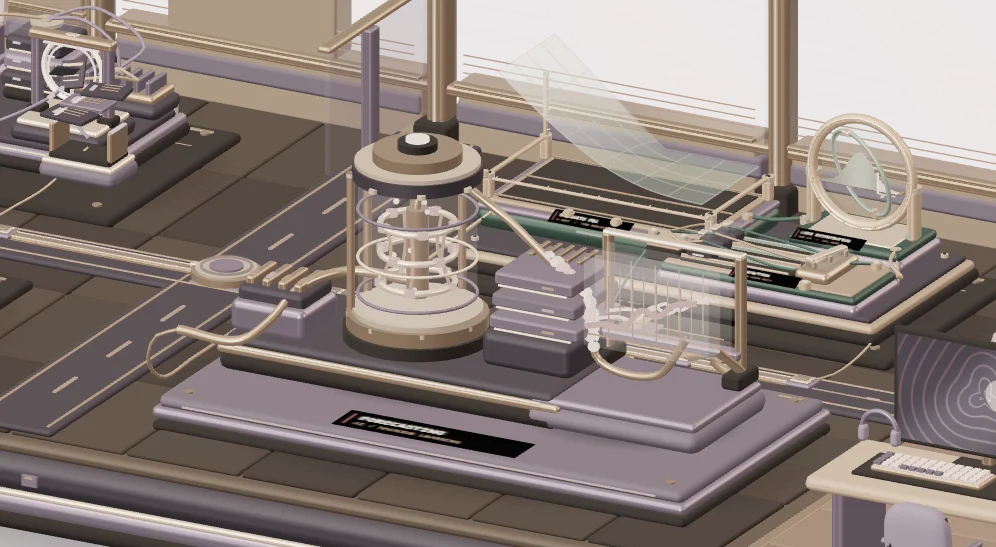
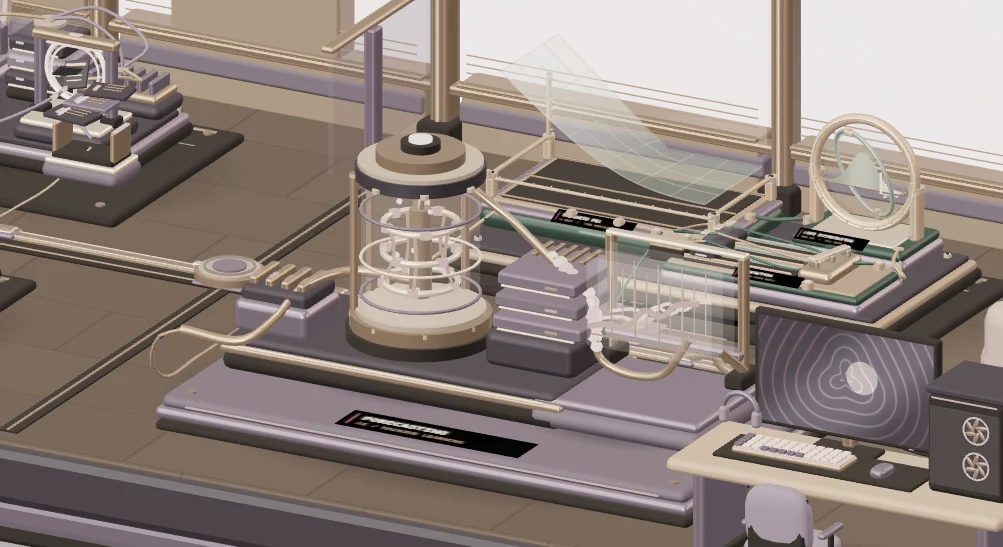
Unify the Studio foundation, walls and furnishings

diff --git a/src/sections/research-studio/studio-interior.ts b/src/sections/research-studio/studio-interior.ts
@@ -1,45 +1,26 @@
 import {
   Box3, DoubleSide, Group, Mesh, MeshBasicMaterial, PlaneGeometry, ShaderMaterial, Vector3,
 } from "three";
-import { modelGroup, placeShadow, type StudioMaterials } from "./studio-model";
+import { modelGroup, type StudioMaterials } from "./studio-model";
 import { buildLounge, buildDesk } from "./studio-furniture";
 import { studioPicture, studioScreen } from "./studio-interior-media";
 import type { StudioObjectId } from "./studio-choreography";
 
 export const studioObjectIds = ["lounge", "desk", "television", "artwork"] as const;
 
-export function studioInterior(parent: Group, m: StudioMaterials, shadow: MeshBasicMaterial, straightWing: boolean) {
+export function studioInterior(parent: Group, m: StudioMaterials, shadow: MeshBasicMaterial, straight: boolean) {
   const room = modelGroup(parent);
   const wall = m.satin(m.night.clone().lerp(m.stone,.30),.88);
   const plaster = m.satin(m.stone.clone().lerp(m.ivory,.15).lerp(m.night,.23),.91);
   const oak = m.satin(m.stone.clone().lerp(m.night,.67),.65);
-  const boards = [.175,.205,.235,.217].map(tone => m.satin(m.night.clone().lerp(m.stone,tone).lerp(m.rose,.042),.74));
-  const fabric = m.satin(m.mauve.clone().lerp(m.stone,.35).lerp(m.night,.27),1);
+  const fabric = m.satin(m.mauve.clone().lerp(m.stone,.38).lerp(m.night,.21),.94);
   fabric.side = DoubleSide;
-  const front = straightWing ? 3.62 : 4.54;
-  const center = (front - 3.62) * .5;
-  const depth = front + 3.62;
-  const wingWidth = 4.35;
-  const wingX = 8.155;
   const back = -3.39;
-  placeShadow(parent,shadow,new Vector3(7.65,-.77,center),8.5,depth+3.1);
-  room.box(m.rubber,wingX,-.66,center,wingWidth-.06,.20,depth-.25,.08);
-  room.box(m.alloy,wingX,-.50,center,wingWidth,.17,depth-.12,.07);
-  room.box(m.edge,wingX,-.414,center,wingWidth,.050,depth-.10,.022);
-  room.box(m.ceramic,wingX,-.24,center,wingWidth,.32,depth,.12);
-  room.box(oak,wingX,-.058,center,wingWidth-.04,.13,depth-.10,.045);
-  for (let i=0;i<10;i++) {
-    const z = -3.62 + (i + .5)*depth/10;
-    const shift = i%3 * .35;
-    room.box(boards[i%4],6.92+shift*.5,.024,z,1.79+shift,.045,depth/10-.026,.018);
-    room.box(boards[(i+2)%4],9.08+shift*.5,.024,z,2.45-shift,.045,depth/10-.026,.018);
-  }
-  room.box(m.metal,6.035,.043,0,.10,.018,7.03,.012);
 
   // Deep window reveals and solid panels keep the original front cutaway open.
-  room.box(wall,8.11,.32,back,4.36,.60,.29,.035);
-  room.box(plaster,8.11,3.19,back,4.36,.41,.31,.036);
-  for (const [x,width] of [[6.32,.70],[8.81,.22],[10.06,.55]]) {
+  room.box(wall,7.99,.30,back-.03,4.44,.55,.25,.036);
+  room.box(plaster,7.98,2.77,back-.05,4.45,.58,.25,.038);
+  for (const [x,width] of [[5.94,.43],[8.80,.18],[10.04,.29]]) {
     room.box(wall,x,1.80,back,width,2.64,.29,.027);
     room.box(m.metal,x+width*.5-.03,1.81,back+.17,.052,2.72,.10,.018);
   }
@@ -50,8 +31,12 @@ export function studioInterior(parent: Group, m: StudioMaterials, shadow: MeshBa
   room.box(m.lamp,8.12,2.969,back+.12,3.47,.024,.075,.008);
   room.box(m.metal,7.7,1.84,back+.015,.055,2.32,.08,.008);
   room.box(m.metal,8.26,1.88,back+.02,3.60,.055,.08,.008);
-  room.box(plaster,10.25,.42,-2.01,.22,.74,2.65,.043);
-  room.box(m.edge,10.25,.82,-2.01,.26,.088,2.67,.034);
+  for (const x of [6.34,6.46,6.58,6.70,6.82,9.42,9.55,9.68,9.81,9.94]) {
+    room.cylinder(m.metal,x,2.945,back+.29,.025,.083,10);
+  }
+  room.box(wall,10.14,.36,-2.01,.22,.63,2.65,.052);
+  room.box(m.edge,10.14,.69,-2.01,.25,.058,2.67,.034);
+  room.box(m.alloy,10.14,.33,-.65,.24,.57,.13,.055);
 
   for (const [x,width] of [[-4.24,2.60],[-1.42,2.58],[1.41,2.51],[4.24,2.58]]) {
     room.box(wall,x,.30,back-.06,width,.55,.25,.033);
@@ -72,9 +57,10 @@ export function studioInterior(parent: Group, m: StudioMaterials, shadow: MeshBa
     return (time:number) => {
       for(let i=0;i<position.count;i++){
         const u=(i%25)/24, v=Math.floor(i/25)/17;
-        const fold=Math.sin(u*30+v*.9+sign*.6);
-        const sway=Math.sin(time*.73+u*3.1+sign)*.036*v*v;
-        position.setXYZ(i,(u-.5)*w+sign*.24*v*v,1.17-v*2.34 + .039*v*Math.cos(u*21), (.08+v*.044)*fold + sway);
+        const fold=Math.sin(u*32+v*.9+sign*.6) + .19*Math.cos(u*63-v*.8);
+        const sway=Math.sin(time*.73+u*3.1+sign)*.033*v*v;
+        const drape=(.88+v*.23)*w;
+        position.setXYZ(i,(u-.5)*drape+sign*.20*v*v,1.17-v*2.34 + .045*v*Math.cos(u*24+sign), (.051+v*.031)*fold + sway);
       }
       position.needsUpdate = true;
       shape.computeVertexNormals();
@@ -83,17 +69,17 @@ export function studioInterior(parent: Group, m: StudioMaterials, shadow: MeshBa
   const curtains = [curtain(6.69,.56,-1),curtain(9.78,.58,1)];
   curtains.forEach(animate=>animate(0));
 
-  const windowLight = new Mesh(new PlaneGeometry(3.75,4.2),new ShaderMaterial({
+  const windowLight = new Mesh(new PlaneGeometry(7.8,5.4),new ShaderMaterial({
     uniforms:{ shade:{value:m.stone.clone().lerp(m.ivory,.65)} },
     vertexShader:"varying vec2 p; void main(){p=uv;gl_Position=projectionMatrix*modelViewMatrix*vec4(position,1.);}",
-    fragmentShader:`varying vec2 p; uniform vec3 shade; void main(){vec2 g=(p-vec2(.5,.10))*vec2(2.1,1.15);
-      gl_FragColor=vec4(shade,.30*max(0.,1.-length(g))*smoothstep(0.,.16,p.y));
+    fragmentShader:`varying vec2 p; uniform vec3 shade; void main(){vec2 g=(p-vec2(.76-p.y*.31,.09))*vec2(2.35,1.15);
+      gl_FragColor=vec4(shade,.21*max(0.,1.-length(g))*smoothstep(0.,.20,p.y)*(1.-smoothstep(.74,1.,p.y)));
       #include <colorspace_fragment>
     }`,
     transparent:true,depthWrite:false,polygonOffset:true,polygonOffsetFactor:-1,
   }));
   windowLight.rotation.x=-Math.PI/2;
-  windowLight.position.set(8.12,.049,-1.12);
+  windowLight.position.set(6.36,.046,-.60);
   parent.add(windowLight);
 
   const television = new Group();
@@ -111,19 +97,21 @@ export function studioInterior(parent: Group, m: StudioMaterials, shadow: MeshBa
   console.box(m.metal,0,.82,-.11,.11,.31,.16,.025);
   console.build();
   const tv = studioScreen(television,m,new Vector3(0,1.29,.005),2.26,1.28);
-  const loungeZ = straightWing ? .04 : .31;
-  const lounge = buildLounge(parent,m,shadow,8.53,loungeZ);
-  const deskZ = straightWing ? 2.11 : 3.15;
-  const desk = buildDesk(parent,m,shadow,8.16,deskZ);
+  const loungeX = straight ? 8.48 : 8.23;
+  const loungeZ = straight ? .47 : -.13;
+  const lounge = buildLounge(parent,m,shadow,loungeX,loungeZ);
+  const deskX = straight ? 8.45 : 7.05;
+  const deskZ = straight ? 2.89 : 3.30;
+  const desk = buildDesk(parent,m,shadow,deskX,deskZ);
 
-  studioPicture(parent,m,new Vector3(-4.53,1.74,back+.15),1.52,1.17,true);
-  studioPicture(parent,m,new Vector3(-3.22,1.92,back+.15),.77,.89,false);
-  studioPicture(parent,m,new Vector3(-1.65,1.81,back+.12),.93,1.08,false);
+  studioPicture(parent,m,new Vector3(-4.55,1.78,back+.15),1.57,1.14,"ridge");
+  studioPicture(parent,m,new Vector3(-3.29,1.96,back+.15),.69,.84,"arcade");
+  studioPicture(parent,m,new Vector3(-1.65,1.80,back+.12),.91,1.13,"ink");
 
   const bounds: Record<StudioObjectId, Box3> = {
-    desk:new Box3(new Vector3(6.72,.12,deskZ-.66),new Vector3(9.66,2.03,deskZ+.93)),
+    desk:new Box3(new Vector3(deskX-1.44,.12,deskZ-.62),new Vector3(deskX+1.5,2.03,deskZ+.98)),
     television:new Box3(new Vector3(7.12,.12,-3.17),new Vector3(9.48,1.97,-2.42)),
-    lounge:new Box3(new Vector3(6.69,.09,loungeZ-1.13),new Vector3(9.91,1.28,loungeZ+.84)),
+    lounge:new Box3(new Vector3(loungeX-1.64,.09,loungeZ-1.17),new Vector3(loungeX+1.38,1.29,loungeZ+1.18)),
     artwork:new Box3(new Vector3(-5.40,1.10,back+.07),new Vector3(-2.80,2.52,back+.19)),
   };
   const centers = Object.fromEntries(studioObjectIds.map(id=>[id,bounds[id].getCenter(new Vector3())])) as Record<StudioObjectId,Vector3>;

diff --git a/src/sections/research-studio/studio-architecture.ts b/src/sections/research-studio/studio-architecture.ts
@@ -1,4 +1,4 @@
-import { Group, Mesh, PlaneGeometry, ShaderMaterial, Vector3 } from "three";
+import { ExtrudeGeometry, Group, Mesh, PlaneGeometry, ShaderMaterial, Shape, Vector3, type Material } from "three";
 import { modelGroup, placeShadow, plateMaterial, type StudioMaterials } from "./studio-model";
 import { studioBays } from "./studio-plan";
 import type { MeshBasicMaterial } from "three";
@@ -7,35 +7,59 @@ const nameplates = [
   ["SYSTEMS", "ROBOTICS BAY"], ["AGENTIC", "RAG BAY"], ["MARKETS", "FINANCE BAY"], ["FORECASTING", "AI / MACHINE LEARNING"],
 ] as const;
 
-export function studioArchitecture(parent: Group, m: StudioMaterials, shadow: MeshBasicMaterial, variant: string) {
-  const room = modelGroup(parent);
-  room.box(m.rubber, 0, -.66, 0, 11.66, .20, 6.95, .095);
-  room.box(m.alloy, 0, -.50, 0, 11.88, .17, 7.13, .08);
-  room.box(m.edge, 0, -.414, 0, 11.84, .050, 7.11, .024);
-  room.box(m.ceramic, 0, -.24, 0, 12.01, .32, 7.25, .14);
-  room.box(m.panel, 0, -.059, 0, 11.84, .13, 7.08, .06);
-  placeShadow(parent, shadow, new Vector3(.35, -.79, .45), 15.2, 10.5);
-
-  const floorShades = [.046, .066, .077].map(m.tile);
-  for (let row = 0; row < 5; row++) {
-    for (let slot = 0; slot < 12; slot++) {
-      const x = (slot - 5.5) * .966, z = (row - 2) * 1.38;
-      room.box(floorShades[(row * 5 + slot * 2) % 3], x, .022, z, .948, .046, 1.355, .022);
-    }
+function foundation(parent: Group, m: StudioMaterials, shadow: MeshBasicMaterial, straight: boolean) {
+  const outline = new Shape();
+  outline.moveTo(-5.91,3.53);
+  outline.lineTo(10.26,3.53);
+  outline.lineTo(10.26,-(straight ? 4.16 : 4.45));
+  if (!straight) {
+    outline.lineTo(6.21,-4.45);
+    outline.lineTo(4.66,-3.66);
   }
+  outline.lineTo(-5.91,-(straight ? 4.16 : 3.66));
+  outline.closePath();
+
+  const floor = m.satin(m.night.clone().lerp(m.stone,.118),.79,.08);
+  floor.onBeforeCompile = shader => {
+    shader.vertexShader = "varying vec2 floorPosition;\n"+shader.vertexShader.replace("#include <begin_vertex>",
+      "#include <begin_vertex>\nfloorPosition = position.xz;");
+    shader.fragmentShader = "varying vec2 floorPosition;\n"+shader.fragmentShader.replace("#include <color_fragment>",`
+      #include <color_fragment>
+      float row = floor(floorPosition.y / .91);
+      vec2 panel = vec2(floorPosition.x / 1.54 + mod(row, 2.) * .33, floorPosition.y / .91);
+      vec2 edge = min(fract(panel), 1. - fract(panel));
+      float joint = smoothstep(.003,.013,min(edge.x,edge.y));
+      float tone = fract(sin(dot(floor(panel),vec2(12.9898,78.233))) * 43758.546);
+      diffuseColor.rgb *= mix(.76,.95 + tone*.085,joint);
+    `);
+  };
+  function layer(material: Material, y: number, height: number, bevel: number) {
+    const section = new ExtrudeGeometry(outline,{depth:height,steps:1,bevelEnabled:true,bevelSegments:2,bevelSize:bevel,bevelThickness:bevel});
+    section.rotateX(-Math.PI/2);
+    const mesh = new Mesh(section,material);
+    mesh.position.y = y;
+    parent.add(mesh);
+  }
+  layer(m.rubber,-.72,.145,.043);
+  layer(m.alloy,-.57,.105,.072);
+  layer(m.edge,-.444,.031,.050);
+  layer(m.ceramic,-.37,.30,.085);
+  layer(floor,-.052,.071,.022);
+  placeShadow(parent,shadow,new Vector3(2.14,-.77,.47),19.4,11.5);
+}
+
+export function studioArchitecture(parent: Group, m: StudioMaterials, shadow: MeshBasicMaterial, variant: string, straight: boolean) {
+  const room = modelGroup(parent);
+  foundation(parent,m,shadow,straight);
+  const floorShades = [.046, .066, .077].map(m.tile);
 
   // The two service trenches and their crossing spine connect all bay plinths.
-  room.box(m.ceramic, 0, .061, 0, .72, .062, 6.89, .035);
-  room.box(m.ceramic, 0, .063, .035, 11.59, .064, .56, .034);
-  for (const x of [-.29, .29]) room.box(m.metal, x, .092, 0, .028, .018, 6.76);
-  for (const z of [-.18, .23]) room.box(m.metal, 0, .096, z, 11.43, .018, .024);
-  room.box(m.strip, 0, .098, .015, 11.32, .012, .016);
+  room.box(m.rubber,0,.063,.015,11.43,.038,.31,.019);
+  for (const z of [-.123,.153]) room.box(m.metal,0,.091,z,11.35,.014,.018,.007);
+  room.box(m.rubber,0,.052,.04,.16,.020,6.94,.009);
+  room.box(m.metal,0,.067,.04,.024,.014,6.94,.006);
   room.box(m.alloy, 0, .099, .024, .42, .030, .41, .066);
   room.cylinder(m.edge, 0, .125, .024, .11, .035, 18);
-  for (const x of [-5.42, -4.03, -2.64, -1.25, 1.25, 2.64, 4.03, 5.42]) {
-    room.box(m.trace, x, .104, .015, .112, .012, .023);
-  }
-  for (const z of [-2.55, -1.69, -.84, .86, 1.71, 2.56]) room.box(m.strip, 0, .104, z, .033, .015, .36);
 
   for (const [index, bay] of studioBays.entries()) {
     const { x, z } = bay;
@@ -80,10 +104,10 @@ export function studioArchitecture(parent: Group, m: StudioMaterials, shadow: Me
       room.box(m.metal, x, rearHeight * .5, rear, .16, rearHeight, .23, .039);
       room.box(m.edge, x, rearHeight * .5, rear + .122, .031, 2.91, .024);
     }
-    room.box(m.alloy, 0, rearHeight, rear, 11.45, .198, .30, .06);
-    room.box(m.edge, 0, rearHeight - .077, rear + .14, 11.12, .023, .035);
-    room.box(m.strip, 0, rearHeight - .13, rear + .088, 10.55, .034, .068);
-    room.box(m.metal, 0, .49, rear, 11.36, .078, .16, .025);
+    room.box(m.alloy, 2.31, rearHeight, rear, 16.07, .198, .32, .06);
+    room.box(m.edge, 2.31, rearHeight - .077, rear + .16, 15.92, .023, .035);
+    room.box(m.strip, 2.31, rearHeight - .13, rear + .14, 15.65, .029, .048);
+    room.box(m.metal, 2.30, .49, rear, 15.94, .078, .16, .025);
     room.box(m.alloy, 0, 2.35, rear, 11.39, .065, .13, .025);
     const sheen = new ShaderMaterial({
       uniforms: { tint: { value: m.ivory } },
@@ -130,7 +154,7 @@ export function studioArchitecture(parent: Group, m: StudioMaterials, shadow: Me
     room.box(m.strip, 0, .91, rear, 11.31, .033, .22);
   }
 
-  for (const x of [-5.44, -.28, .28, 5.44]) {
+  for (const x of [-5.44, -.28, .28, 4.52]) {
     room.box(m.grout, x, -.25, 3.64, .14, .10, .028, .014);
     room.box(m.strip, x, -.22, 3.659, .066, .021, .012);
   }

diff --git a/src/sections/research-studio/studio-interior-media.ts b/src/sections/research-studio/studio-interior-media.ts
@@ -54,7 +54,7 @@ export function studioScreen(parent:Group,m:StudioMaterials,location:Vector3,wid
   };
 }
 
-export function studioPicture(parent:Group,m:StudioMaterials,location:Vector3,width:number,height:number,weather:boolean) {
+export function studioPicture(parent:Group,m:StudioMaterials,location:Vector3,width:number,height:number,art:"ridge"|"arcade"|"ink") {
   const frame=modelGroup(parent);
   frame.box(m.rubber,location.x+.018,location.y-.025,location.z-.031,width+.045,height+.045,.05,.016);
   frame.box(m.edge,location.x,location.y,location.z,width+.05,height+.05,.052,.011);
@@ -63,42 +63,71 @@ export function studioPicture(parent:Group,m:StudioMaterials,location:Vector3,wi
   canvas.width=384;
   canvas.height=Math.round(384*height/width);
   const ctx=canvas.getContext("2d")!;
-  const warm="#"+m.ivory.getHexString(), ink="#"+m.night.getHexString(), rose="#"+m.rose.getHexString(), h=canvas.height;
+  const warm="#"+m.ivory.getHexString(), ink="#"+m.night.getHexString(), h=canvas.height;
   const texture=new CanvasTexture(canvas);
   texture.colorSpace=SRGBColorSpace;
   ctx.fillStyle=warm;
   ctx.fillRect(0,0,384,h);
-  if(weather) {
-    ctx.fillStyle=ink;
-    ctx.font="600 20px system-ui";
-    ctx.fillText("AVIATION WEATHER",20,h-15);
-    // Use the existing project illustration at print size through a compact derivative.
-    const print=new Image();
-    print.onload=()=>{
-      if(!texture.source.data) return;
-      ctx.drawImage(print,14,12,356,h-48);
-      texture.needsUpdate=true;
-    };
-    texture.addEventListener("dispose",()=>{print.onload=null;});
-    print.src="/images/research-studio/weather-print.webp";
-  } else {
-    ctx.fillStyle=ink;
-    ctx.fillRect(13,13,358,h-26);
-    ctx.lineWidth=2.2;
-    const orbital = width > .8;
-    for(let i=0;i<11;i++){
-      ctx.strokeStyle=i%3===0?warm:rose;
-      ctx.globalAlpha=.5+i*.037;
+  const tint=(a:typeof m.stone,b:typeof m.stone,mix:number)=>"#"+a.clone().lerp(b,mix).getHexString();
+  ctx.save();
+  ctx.beginPath();
+  ctx.rect(13,13,358,h-26);
+  ctx.clip();
+  if(art==="ridge") {
+    const sky=ctx.createLinearGradient(0,0,0,h);
+    sky.addColorStop(0,tint(m.stone,m.mauve,.42));
+    sky.addColorStop(.82,tint(m.ivory,m.rose,.25));
+    ctx.fillStyle=sky;
+    ctx.fillRect(0,0,384,h);
+    ctx.fillStyle=warm;
+    ctx.beginPath();
+    ctx.arc(238,h*.30,40,0,Math.PI*2);
+    ctx.fill();
+    for(let layer=0;layer<5;layer++){
+      ctx.fillStyle=tint(m.rose,m.night,.21+layer*.14);
       ctx.beginPath();
-      for(let j=0;j<=100;j++){
-        const t=j/100*Math.PI*2;
-        const radius=74+i*9+(orbital ? Math.sin(t*2+i*.18)*16 : Math.sin(t*3+i*.20)*15+Math.cos(t*5)*6);
-        const x=192+radius*Math.cos(t), y=h*.53+radius*Math.sin(orbital ? t+i*.026 : t)*.78;
-        if(j===0)ctx.moveTo(x,y);else ctx.lineTo(x,y);
+      for(let x=0;x<=388;x+=4){
+        const u=x/384;
+        ctx.lineTo(x,h*(.49+layer*.083 + .07*Math.sin(u*7+layer*1.4) + .039*Math.sin(u*17+layer*.78) + .012*Math.sin(u*52+layer)));
+      }
+      ctx.lineTo(388,h);
+      ctx.lineTo(0,h);
+      ctx.closePath();
+      ctx.fill();
+    }
+  } else if(art==="arcade") {
+    ctx.fillStyle=tint(m.night,m.stone,.52);
+    ctx.fillRect(0,0,384,h);
+    for(let i=0;i<5;i++){
+      const radius=141-i*22, center=160+i*16, top=h*.43+i*7;
+      ctx.fillStyle=tint(i%2?m.mauve:m.stone,m.ivory,i*.14);
+      ctx.beginPath();
+      ctx.moveTo(center-radius,h);
+      ctx.lineTo(center-radius,top);
+      ctx.arc(center,top,radius,Math.PI,Math.PI*2);
+      ctx.lineTo(center+radius,h);
+      ctx.fill();
+    }
+  } else {
+    ctx.fillStyle=tint(m.ivory,m.stone,.29);
+    ctx.fillRect(0,0,384,h);
+    ctx.lineCap="round";
+    for(let i=0;i<36;i++){
+      ctx.strokeStyle=i%7===0?tint(m.stone,m.rose,.4):ink;
+      ctx.lineWidth=i%7===0?2.5:.95;
+      ctx.globalAlpha=.25+(i%5)*.087;
+      ctx.beginPath();
+      for(let x=25;x<=360;x+=4){
+        const u=(x-25)/335;
+        ctx.lineTo(x,h*.40 + i*3.1 + Math.sin(u*7+i*.052)*h*.15 + Math.sin(u*17+i*.13)*h*.036);
       }
       ctx.stroke();
     }
   }
+  ctx.fillStyle=ink;
+  ctx.globalAlpha=.10;
+  for(let i=0;i<4100;i++) ctx.fillRect((i*193.37)%384,(i*89.13)%h,i%7===0?1.4:.65,.72);
+  ctx.restore();
   const mesh=new Mesh(new PlaneGeometry(width-.045,height-.045),new MeshBasicMaterial({map:texture}));
   mesh.position.copy(location).add(new Vector3(0,0,.029));
   parent.add(mesh);

diff --git a/src/sections/research-studio/studio-runtime.ts b/src/sections/research-studio/studio-runtime.ts
@@ -35,9 +35,9 @@ export function startStudio(
   const materials = studioMaterials(canvas);
   const contact = contactMaterial();
   const removeLight = lightStudio(renderer, scene, materials, params.get("light") ?? "");
-  studioArchitecture(model, materials, contact, params.get("shell") ?? "C");
-  const straightWing = params.get("room") === "straight";
-  const interior = studioInterior(model,materials,contact,straightWing);
+  const straight = params.get("room") === "straight";
+  studioArchitecture(model, materials, contact, params.get("shell") ?? "C",straight);
+  const interior = studioInterior(model,materials,contact,straight);
   const variant = params.get("agentic");
   const financeVariant = params.get("finance");
   const roboticsVariant = params.get("robotics");
